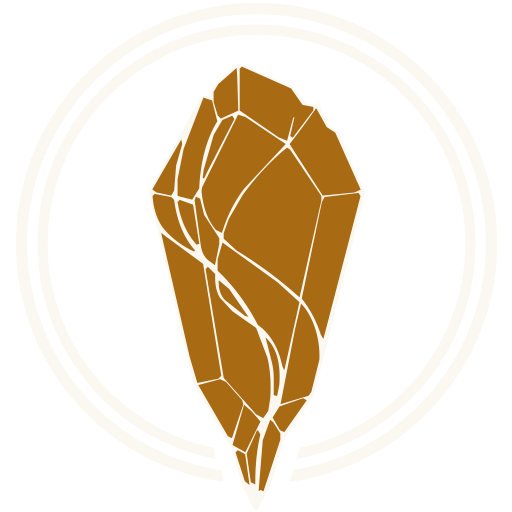
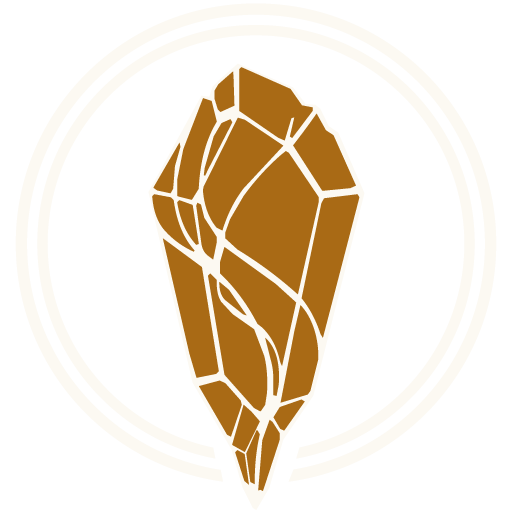
Ignis settings tabs

diff --git a/plugin/src/settings/general-tab.js b/plugin/src/settings/general-tab.js
@@ -1,17 +1,158 @@
 const { Setting } = require("obsidian");
 
-function display(containerEl) {
-  containerEl.createEl("h2", { text: "Ignis General Settings" });
+const GITHUB_URL = "https://github.com/Nystik-gh/ignis";
+const GITHUB_API_LATEST =
+  "https://api.github.com/repos/Nystik-gh/ignis/releases/latest";
 
-  new Setting(containerEl)
-    .setName("Example toggle")
-    .setDesc("This is a test toggle to prove the Setting API works.")
-    .addToggle((toggle) => {
-      toggle.setValue(false);
-      toggle.onChange((value) => {
-        console.log("[ignis] Toggle:", value);
-      });
-    });
+function getVersion(app) {
+  try {
+    const manifest = app.plugins.getPlugin("ignis-bridge")?.manifest;
+    return manifest?.version || "unknown";
+  } catch {
+    return "unknown";
+  }
+}
+
+async function checkForUpdate(currentVersion) {
+  try {
+    const res = await fetch(GITHUB_API_LATEST);
+
+    if (!res.ok) {
+      return null;
+    }
+
+    const data = await res.json();
+    const latest = data.tag_name?.replace(/^v/, "");
+
+    if (latest && latest !== currentVersion) {
+      return latest;
+    }
+
+    return null;
+  } catch {
+    return null;
+  }
+}
+
+function display(containerEl, app) {
+  const version = getVersion(app);
+
+  const header = containerEl.createDiv("ignis-header");
+
+  const logo = header.createEl("img", {
+    cls: "ignis-header-logo",
+    attr: { src: "/assets/ignis.webp", alt: "Ignis" },
+  });
+
+  const info = header.createDiv("ignis-header-info");
+  info.createEl("div", { text: "Ignis", cls: "ignis-header-title" });
+  info.createEl("div", {
+    text: "Obsidian server bridge",
+    cls: "ignis-header-subtitle",
+  });
+
+  const right = header.createDiv("ignis-header-right");
+
+  const versionCol = right.createDiv("ignis-header-version-col");
+  versionCol.createEl("span", {
+    text: `Version ${version}`,
+    cls: "ignis-header-version",
+  });
+
+  const updateIndicator = versionCol.createEl("span", {
+    text: "Checking...",
+    cls: "ignis-update-indicator",
+  });
+
+  const githubLink = right.createEl("a", {
+    cls: "ignis-github-link",
+    href: GITHUB_URL,
+    attr: { target: "_blank", "aria-label": "GitHub" },
+  });
+
+  const githubIcon = githubLink.createEl("img", {
+    cls: "ignis-github-icon",
+    attr: { src: "/assets/github.svg", alt: "GitHub" },
+  });
+
+  checkForUpdate(version).then((latestVersion) => {
+    if (latestVersion) {
+      updateIndicator.textContent = `v${latestVersion} available`;
+      updateIndicator.addClass("ignis-update-available");
+    } else {
+      updateIndicator.textContent = "Up to date";
+    }
+  });
+
+  addServerStatus(containerEl);
+}
+
+function getWsStatus() {
+  const ws = window.__ignisWs;
+
+  if (!ws) {
+    return "disconnected";
+  }
+
+  switch (ws.readyState) {
+    case WebSocket.CONNECTING:
+      return "connecting";
+    case WebSocket.OPEN:
+      return "connected";
+    case WebSocket.CLOSING:
+    case WebSocket.CLOSED:
+      return "disconnected";
+    default:
+      return "disconnected";
+  }
+}
+
+function statusLabel(status) {
+  switch (status) {
+    case "connected":
+      return "Connected";
+    case "connecting":
+      return "Connecting...";
+    case "disconnected":
+      return "Disconnected";
+    default:
+      return "Unknown";
+  }
+}
+
+function addServerStatus(containerEl) {
+  const status = getWsStatus();
+
+  const setting = new Setting(containerEl).setName("Server status");
+
+  const dotEl = setting.controlEl.createEl("span", {
+    cls: `ignis-status-dot ignis-status-${status}`,
+  });
+
+  const labelEl = setting.controlEl.createEl("span", {
+    text: statusLabel(status),
+    cls: "ignis-status-label",
+  });
+
+  const update = () => {
+    const s = getWsStatus();
+    dotEl.className = `ignis-status-dot ignis-status-${s}`;
+    labelEl.textContent = statusLabel(s);
+  };
+
+  const pollInterval = setInterval(update, 3000);
+
+  const observer = new MutationObserver(() => {
+    if (!containerEl.isConnected) {
+      clearInterval(pollInterval);
+      observer.disconnect();
+    }
+  });
+
+  observer.observe(containerEl.parentElement || document.body, {
+    childList: true,
+    subtree: true,
+  });
 }
 
 module.exports = { display };

diff --git a/plugin/styles.css b/plugin/styles.css
@@ -1,0 +1,113 @@
+.ignis-header {
+  display: flex;
+  align-items: center;
+  gap: 16px;
+  padding: 16px 0 12px;
+  margin-bottom: 12px;
+  border-bottom: 1px solid var(--background-modifier-border);
+}
+
+.ignis-header-logo {
+  width: 48px;
+  height: 48px;
+  flex-shrink: 0;
+}
+
+.ignis-header-info {
+  flex: 1;
+  min-width: 0;
+}
+
+.ignis-header-title {
+  font-size: var(--font-ui-large);
+  font-weight: var(--font-semibold);
+  line-height: 1.2;
+  margin: 0;
+}
+
+.ignis-header-subtitle {
+  font-size: var(--font-ui-small);
+  color: var(--text-muted);
+  line-height: 1.2;
+  margin: 4px 0 0;
+}
+
+.ignis-header-right {
+  display: flex;
+  align-items: center;
+  gap: 12px;
+  flex-shrink: 0;
+}
+
+.ignis-header-version-col {
+  display: flex;
+  flex-direction: column;
+  align-items: flex-end;
+  gap: 2px;
+}
+
+.ignis-header-version {
+  font-size: var(--font-ui-small);
+  color: var(--text-muted);
+}
+
+.ignis-update-indicator {
+  font-size: var(--font-ui-smaller);
+  color: var(--text-faint);
+}
+
+.ignis-update-indicator.ignis-update-available {
+  color: var(--text-accent);
+}
+
+.ignis-github-link {
+  color: var(--text-muted);
+  display: flex;
+  align-items: center;
+}
+
+.ignis-github-link:hover {
+  color: var(--text-normal);
+}
+
+.ignis-github-link:hover .ignis-github-icon {
+  opacity: 1;
+}
+
+.ignis-github-icon {
+  width: 32px;
+  height: 32px;
+  opacity: 0.6;
+}
+
+.ignis-status-dot {
+  display: inline-block;
+  width: 8px;
+  height: 8px;
+  border-radius: 50%;
+  margin-right: 6px;
+}
+
+.ignis-status-connected {
+  background-color: var(--color-green);
+}
+
+.ignis-status-connecting {
+  background-color: var(--color-yellow);
+}
+
+.ignis-status-disconnected {
+  background-color: var(--color-red);
+}
+
+.ignis-status-label {
+  font-size: var(--font-ui-small);
+  color: var(--text-muted);
+}
+
+.ignis-plugins-description {
+  padding: 0 16px;
+  color: var(--text-muted);
+  font-size: var(--font-ui-small);
+  margin-bottom: 16px;
+}

diff --git a/plugin/src/settings/inject.js b/plugin/src/settings/inject.js
@@ -41,30 +41,44 @@ function createTab(id, name, displayFn, app) {
   return tab;
 }
 
-function injectIgnisSettings(setting, app) {
+function createGroup(name) {
   const group = document.createElement("div");
   group.className = "vertical-tab-header-group";
 
   const title = document.createElement("div");
   title.className = "vertical-tab-header-group-title";
-  title.textContent = "Ignis";
+  title.textContent = name;
   group.appendChild(title);
 
   const items = document.createElement("div");
   items.className = "vertical-tab-header-group-items";
   group.appendChild(items);
 
+  return { group, items };
+}
+
+function injectIgnisSettings(setting, app) {
+  const ignis = createGroup("Ignis");
+
   const tabs = [
     createTab("ignis-general", "General", generalTab.display, app),
-    createTab("ignis-server-plugins", "Server Plugins", serverPluginsTab.display, app),
+    createTab(
+      "ignis-core-plugins",
+      "Core plugins",
+      serverPluginsTab.display,
+      app,
+    ),
   ];
 
   for (const tab of tabs) {
     tab.navEl = createNavEl(tab, setting);
-    items.appendChild(tab.navEl);
+    ignis.items.appendChild(tab.navEl);
   }
 
-  setting.tabHeadersEl.appendChild(group);
+  setting.tabHeadersEl.appendChild(ignis.group);
+
+  const corePlugins = createGroup("Ignis Core Plugins");
+  setting.tabHeadersEl.appendChild(corePlugins.group);
 }
 
 function patchSettingsModal(plugin) {

diff --git a/plugin/src/settings/server-plugins-tab.js b/plugin/src/settings/server-plugins-tab.js
@@ -48,7 +48,14 @@ async function activateBundledPlugin(bundledPluginId, enable, app) {
 }
 
 function display(containerEl, app) {
-  containerEl.createEl("h2", { text: "Server Plugins" });
+  containerEl.createEl("h2", { text: "Ignis Core Plugins" });
+
+  const descEl = containerEl.createEl("p", {
+    text:
+      "Ignis plugins extend server functionality and run alongside your vaults. " +
+      "They are separate from Obsidian's built-in plugins.",
+    cls: "ignis-plugins-description",
+  });
 
   const loadingEl = containerEl.createEl("p", { text: "Loading plugins..." });
 

diff --git a/server/index.js b/server/index.js
@@ -50,6 +50,8 @@ const vaultRoutes = require("./routes/vault");
 const proxyRoutes = require("./routes/proxy");
 const versionRoutes = require("./routes/version");
 
+app.use("/assets", express.static(path.join(__dirname, "assets")));
+
 app.use("/api/fs", fsRoutes);
 app.use("/api/vault", vaultRoutes);
 app.use("/api/proxy", proxyRoutes);

diff --git a/src/shims/fs/watcher-client.js b/src/shims/fs/watcher-client.js
@@ -25,6 +25,7 @@ export function createWatcherClient(metadataCache, contentCache, fsWatch) {
 
     try {
       ws = new WebSocket(url);
+      window.__ignisWs = ws;
     } catch (e) {
       console.error("[watcher] Failed to create WebSocket:", e);
       scheduleReconnect();